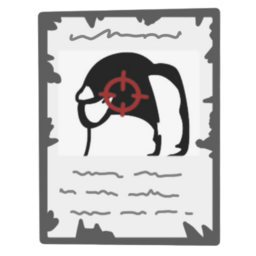
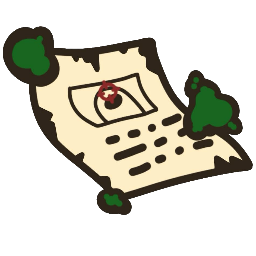
The list of what I did is in Plugin.cs
Still just have jack of all assassin not working right. :D

diff --git a/JAM/Roles/Crewmate/MicromanagerRole.cs b/JAM/Roles/Crewmate/MicromanagerRole.cs
@@ -128,7 +128,7 @@ public sealed class MicromanagerRole(IntPtr cppPtr) : CrewmateGhostRole(cppPtr),
             return false;
         }
 
-        if (opts.MicromanagerCanBeClickedBy == MicromanagerRoleClickableType.NonCrew && PlayerControl.LocalPlayer.Data.Role.IsCrewmate())
+        if (opts.MicromanagerCanBeClickedBy == MicromanagerRoleClickableType.NonCrew && PlayerControl.LocalPlayer.IsCrewmate())
         {
             return false;
         }
@@ -242,7 +242,7 @@ public sealed class MicromanagerRole(IntPtr cppPtr) : CrewmateGhostRole(cppPtr),
         }
 
         var crewPlayers = PlayerControl.AllPlayerControls.ToArray().Where(x => 
-            x && x != Player && x.Data != null && x.IsCrewmate() &&
+            x && x != Player && x.Data != null && x.IsCrewmate() && !x.HasModifier<AllianceGameModifier>() &&
                 opts.MicromanagerManagesCrewTasks switch
                 {
                     MicromanagerRoleCrewType.AliveCrew => !x.Data.IsDead,
@@ -283,8 +283,6 @@ public sealed class MicromanagerRole(IntPtr cppPtr) : CrewmateGhostRole(cppPtr),
 
         HudManager.Instance.ShowTaskComplete();
 
-        RpcCompleteTask(randomCrew, randomTask.Id);
-
         var sb = new StringBuilder();
         randomTask.AppendTaskText(sb);
 
@@ -301,8 +299,10 @@ public sealed class MicromanagerRole(IntPtr cppPtr) : CrewmateGhostRole(cppPtr),
 
         notif.AdjustNotification();
 
+
+        RpcCompleteTask(randomCrew, randomTask.Id, taskText);
         var targetMessage =
-            $"<b>{microColor.ToTextColor()}The Micromanager completed the</color> {TownOfUsColors.Doomsayer.ToTextColor()}{taskText} </color>{microColor.ToTextColor()}task for you.</color></b>";
+            $"<b>{microColor.ToTextColor()}The Micromanager completed the</color> {TownOfUsColors.Doomsayer.ToTextColor()}{taskText}</color>{microColor.ToTextColor()}task for you.</color></b>";
     }
 
     public override void Initialize(PlayerControl player)
@@ -531,13 +531,11 @@ public sealed class MicromanagerRole(IntPtr cppPtr) : CrewmateGhostRole(cppPtr),
     }
 
     [MethodRpc((uint) JAMRpcCalls.MicromanageTask)]
-    public static void RpcCompleteTask(PlayerControl player, uint taskId)
+    public static void RpcCompleteTask(PlayerControl player, uint taskId, string taskName)
     {
         if (player.AmOwner)
         {
             player.RpcCompleteTask(taskId);
-
-            string taskName = player.Data.FindTaskById(taskId)?.ToString() ?? "Null";
 
             Helpers.CreateAndShowNotification(
                 $"<b>{Colors.Micromanager.ToTextColor()}Your {TownOfUsColors.Doomsayer.ToTextColor()}{taskName}</color> Task Was Completed By The {Colors.Micromanager.ToTextColor()}Micromanager</color>. </color></b>",
@@ -553,7 +551,6 @@ public sealed class MicromanagerRole(IntPtr cppPtr) : CrewmateGhostRole(cppPtr),
     {
         public static void Postfix(ref List<RoleTypes> ___CrewmateGhostRolePool)
         {
-            Info("Meep Moop");
             ___CrewmateGhostRolePool.RemoveAll(x => x == (RoleTypes)RoleId.Get<MicromanagerRole>());
         }
     }

diff --git a/JAM/Modifiers/ConcealedModifier.cs b/JAM/Modifiers/ConcealedModifier.cs
@@ -10,6 +10,7 @@ using TownOfUs.Modifiers;
 using TownOfUs.Modifiers.Game;
 using TownOfUs.Modifiers.Game.Universal;
 using TownOfUs.Modules.Wiki;
+using TownOfUs.Options.Maps;
 using TownOfUs.Utilities;
 using TownOfUs.Utilities.Appearances;
 using UnityEngine;
@@ -23,8 +24,7 @@ public sealed class ConcealedModifier : UniversalGameModifier, IWikiDiscoverable
     public override string ModifierName => "Concealed";
      
     public override string IntroInfo => "You Are Harder To See";
-
-     
+    
     public override string GetDescription()
     {
         return "You Are Slightly Less Opaque";
@@ -45,7 +45,18 @@ public sealed class ConcealedModifier : UniversalGameModifier, IWikiDiscoverable
      
     public override bool IsModifierValidOn(RoleBehaviour role)
     {
-        return !role.CanVent && base.IsModifierValidOn(role);
+        return base.IsModifierValidOn(role) && !role.Player.HasModifier<ShyModifier>();
+    }
+    [HarmonyPatch(typeof(ShyModifier), nameof(ShyModifier.IsModifierValidOn))]
+    public static class MakeShyExclusive
+    {
+        public static void Postfix(RoleBehaviour role, ref bool __result)
+        {
+            if (role.Player.HasModifier<ConcealedModifier>())
+            {
+                __result = false;
+            }
+        }
     }
 
     public override ModifierUiConfiguration Configuration
@@ -76,13 +87,29 @@ public sealed class ConcealedModifier : UniversalGameModifier, IWikiDiscoverable
     {
         base.Update();
 
-        if (!Player.Data.IsDead)
+        bool commsActive;
+
+        switch ((ExpandedMapNames)GameOptionsManager.Instance.currentGameOptions.MapId)
+        {
+            case ExpandedMapNames.MiraHq:
+            case ExpandedMapNames.Fungle:
+                var hqComms = ShipStatus.Instance.Systems[SystemTypes.Comms]
+                    .Cast<HqHudSystemType>();
+
+                commsActive = hqComms.IsActive;
+                break;
+
+            default:
+                var hudComms = ShipStatus.Instance.Systems[SystemTypes.Comms]
+                    .Cast<HudOverrideSystemType>();
+
+                commsActive = hudComms.IsActive;
+                break;
+        }
+
+        if (!Player.Data.IsDead && !(commsActive && TownOfUsMapOptions.IsCamoCommsOn()))
         {
             ShyModifier.SetVisibility(Player, OptionGroupSingleton<ConcealedOptions>.Instance.ConcealedOpacity);
-        }
-        else
-        {
-            ShyModifier.SetVisibility(Player, 1, OptionGroupSingleton<ConcealedOptions>.Instance.ConcealName);
         }
     }
 }

diff --git a/JAM/Modifiers/Role/DeceiverShieldModifiers.cs b/JAM/Modifiers/Role/DeceiverShieldModifiers.cs
@@ -1,4 +1,5 @@
 using HarmonyLib;
+using Il2CppSystem.Web.Util;
 using MiraAPI.Modifiers;
 using MiraAPI.Translation;
 using MiraAPI.Utilities.Assets;
@@ -42,40 +43,12 @@ public sealed class DeceiverMedicShield : BaseShieldModifier, IAnimated
     public override void Update()
     {
         Shield.SetActive(!Player.Data.IsDead);
-    }
-}
 
-public sealed class DeceiverWardenShield : BaseShieldModifier, IAnimated
-{
-    public override string ModifierName => "Fortified";
-    public override string ShieldDescription => "You are fortified by a Warden!\nNo one can interact with you.";
-    public override LoadableAsset<Sprite>? ModifierIcon => TouRoleIcons.Warden;
-    public override bool HideOnUi => false;
-    public override Color FreeplayFileColor => new Color32(100, 220, 100, byte.MaxValue);
-    public GameObject Shield { get; set; }
-    public bool IsVisible { get; set; } = true;
-    public void SetVisible()
-    {
-    }
-    public override void OnActivate()
-    {
-        Shield = AnimStore.SpawnAnimBody(base.Player, TouAssets.WardenFort.LoadAsset(), false, -1.1f, -0.1f, 1.5f);
-    }
-    public override void OnDeath(DeathReason reason)
-    {
-        base.OnDeath(reason);
-        Shield?.SetActive(false);
-        ModifierComponent?.RemoveModifier(this);
-    }
-    public override void OnDeactivate()
-    {
-        if (Shield != null)
+        DeceiverRole.confuseRole = false;
+        if(!MiraAPI.Utilities.Helpers.GetAlivePlayers().Any(p => p.Data.Role is DeceiverRole))
         {
-            Shield.Destroy();
+            ModifierComponent.RemoveModifier(this);
         }
-    }
-    public override void Update()
-    {
-        Shield.SetActive(!Player.Data.IsDead);
+        DeceiverRole.ReConfuse();
     }
 }

diff --git a/JAM/Plugin.cs b/JAM/Plugin.cs
@@ -80,23 +80,25 @@ public enum JAMRpcCalls : uint
     MicromanageTask = 2
 }
 
+// Jack Of All assassin continues game even when all crew
+
+// Concealed looks odd... (icon in-game)
+
 // =============== FIXES ===============
 /*
- * Added Fake Shield Ability To Deceiver
- * Bounty Target No Longer Shows Up In Win/Loss Screen
- * Removed Zombie Alliance Modifier
- * Bounty Reward Modifier No Longer Shows Up In The Wiki
- * Made Bounty Target Modifier Hidden
- * Zombies No Longer Win With Crew Without The Alliance Modifier
- * Fixed Role Option Description Text (RoleMedDescription) For Roles
- * Changed Micromanager To Use An RPC Call Instead Of A Modifier
- * Made This Mod's Neutrals Win/Lose Correctly When Dead
- * Added Concealed Modifier
- * Gave Bounty Target A Speed Boost
- * Adjusted Micromanager To Work Better
- * Fixed Bounty Reveal Modifier
- * Made it so 100% on Bounty Rewards Works Correctly
- * Micromanager No Longer Spawns On Crewmate Death
- * Jack Of All Can No Longer Get Circumvent
- * Added Custom Intro Sounds For Jack Of All and Time Keeper
+ * Fixed Bounty Target Speed Modifier
+ * Fixed Concealed Options Appearance
+ * Micromanager Can No Longer Manager Alliance Modified Crew
+ * Zombies Can No Longer Call Meetings
+ * Zombie Leader Is Now Guessable Until Final 3
+ * Made Concealed And Shy Mutually Exclusive
+ * You Are No Longer Concealed During Camo Comms
+ * Adjusted Wording In Bounty Hunter Options
+ * Micromanager Task Completion Names Look Right
+ * Changed Gossip Sprite
+ * Slighty Brightened Bounty Hunter's Color
+ * Deceiver Shield Goes Away When Deceiver Is Dead Now
+ * Changed Bounty Hunter Sprite
+ * Dead no longer get bounty hunting button
+ * Removed Warden Shield From Deceiver Shields
 */

diff --git a/JAM/Roles/Neutral/ZombieRoles.cs b/JAM/Roles/Neutral/ZombieRoles.cs
@@ -87,6 +87,7 @@ public class ZombieRole(IntPtr cppPtr) : NeutralRole(cppPtr), ITownOfUsRole, IWi
         }
 
         Player.RpcAddModifier<ZombieRevealedModifier>();
+        Player.RemainingEmergencies = 0;
     }
 
     public bool WinConditionMet()
@@ -196,7 +197,7 @@ public sealed class ZombieLeaderRole(IntPtr cppPtr) : NeutralRole(cppPtr), ITown
     public Color RoleColor => Colors.Zombie;
     public ModdedRoleTeams Team => ModdedRoleTeams.Custom;
     public RoleBehaviour AppearAs => (RoleBehaviour)RoleId.Get<ZombieLeaderRole>();
-    public bool IsGuessable => PlayerControl.LocalPlayer != null && PlayerControl.LocalPlayer.Data.Role is VigilanteRole;
+    public bool IsGuessable => Helpers.GetAlivePlayers().Count > 3;
     public CustomRoleConfiguration Configuration => new(this)
     {
         IconTmp = TmpSpriteUtils.CreateSpriteAsset(JamRoleIcons.ZombieLeader.LoadAsset(), "JackOfAllMods.Roles.Neutral.ZombieLeader", 1.45f),
@@ -216,7 +217,7 @@ public sealed class ZombieLeaderRole(IntPtr cppPtr) : NeutralRole(cppPtr), ITown
     float timer;
     public void Update()
     {
-        if(Player == null || Player.Data.IsDead) return;
+        if (Player == null || Player.Data.IsDead) return;
 
         List<DeadBody> bodiesInRange = Helpers.GetNearestDeadBodies(Player.transform.position, ShipStatus.Instance.MaxLightRadius * 100, Helpers.CreateFilter(Constants.NotShipMask));
         bodiesInRange.RemoveAll(b => !(MiscUtils.PlayerById(b.ParentId).GetRoleWhenAlive() is ZombieRole));

diff --git a/JAM/Buttons/Impostor/DeceiverShieldButton.cs b/JAM/Buttons/Impostor/DeceiverShieldButton.cs
@@ -34,16 +34,16 @@ public sealed class DeceiverShieldButton : TownOfUsRoleButton<DeceiverRole, Play
             Error("Deceiver Shield: Target is null");
             return;
         }
-        else if (MiraAPI.Utilities.Helpers.GetAlivePlayers().Any(p => p.HasModifier<DeceiverMedicShield>() || p.HasModifier<DeceiverWardenShield>()))
+        else if (MiraAPI.Utilities.Helpers.GetAlivePlayers().Any(p => p.HasModifier<DeceiverMedicShield>()))
         {
-            Error("There Is Already A Shielded Target: " + Helpers.GetAlivePlayers().FirstOrDefault(p => p.HasModifier<DeceiverMedicShield>() || p.HasModifier<DeceiverWardenShield>())?.Data.PlayerName);
+            Error("There Is Already A Shielded Target: " + Helpers.GetAlivePlayers().FirstOrDefault(p => p.HasModifier<DeceiverMedicShield>())?.Data.PlayerName);
             return;
         }
 
-        DeceiverRole.RpcDeceiverShield(PlayerControl.LocalPlayer, Target, UnityEngine.Random.Range(0f, 1f) < 0.9f);
+        DeceiverRole.RpcDeceiverShield(PlayerControl.LocalPlayer, Target);
     }
     public override bool CanUse()
     {
-        return base.CanUse() && !MiraAPI.Utilities.Helpers.GetAlivePlayers().Any(p => p.HasModifier<DeceiverMedicShield>() || p.HasModifier<DeceiverWardenShield>());
+        return base.CanUse() && !MiraAPI.Utilities.Helpers.GetAlivePlayers().Any(p => p.HasModifier<DeceiverMedicShield>());
     }
 }

diff --git a/JAM/Roles/Impostor/DeceiverRole.cs b/JAM/Roles/Impostor/DeceiverRole.cs
@@ -117,14 +117,11 @@ public sealed class DeceiverRole(IntPtr cppPtr) : ImpostorRole(cppPtr), ITownOfU
     }
 
     [MethodRpc((uint)JAMRpcCalls.DeceiverShield)]
-    public static void RpcDeceiverShield(PlayerControl deceiver, PlayerControl target, bool medicShield)
+    public static void RpcDeceiverShield(PlayerControl deceiver, PlayerControl target)
     {
         if(PlayerControl.LocalPlayer == deceiver || PlayerControl.LocalPlayer == target)
         {
-            if (medicShield)
-                target.AddModifier<DeceiverMedicShield>();
-            else
-                target.AddModifier<DeceiverWardenShield>();
+            target.AddModifier<DeceiverMedicShield>();
         }
     }
 
@@ -255,7 +252,7 @@ public sealed class DeceiverRole(IntPtr cppPtr) : ImpostorRole(cppPtr), ITownOfU
         }
     }
 
-    static void ReConfuse()
+    public static void ReConfuse()
     {
         if (!hasGameStarted) return;
         if (PlayerControl.LocalPlayer.Data.Role.IsImpostor() || PlayerControl.LocalPlayer.Data.IsDead || PlayerControl.LocalPlayer.Data.Role is IGhostRole) return;

diff --git a/JAM/Options/Modifiers/VentableOptions.cs b/JAM/Options/Modifiers/VentableOptions.cs
@@ -12,14 +12,11 @@ namespace JAM.Options.Modifiers.Game.Universal;
 
 public sealed class VentableOptions : AbstractOptionGroup<VentableModifier>
 {
-        public override string GroupName => "Ventable Options";
+    public override string GroupName => "Ventable Options";
     
-        [ModdedNumberOption("Ventable Count", 0f, 5f, 1f)]
+    [ModdedNumberOption("Ventable Count", 0f, 5f, 1f)]
     public float VentableCount { get; set; } = 1f;
 
-        [ModdedNumberOption("Ventable Chance", 0f, 100f, 10f, MiraNumberSuffixes.Percent)]
+    [ModdedNumberOption("Ventable Chance", 0f, 100f, 10f, MiraNumberSuffixes.Percent)]
     public float VentableChance { get; set; } = 50f;
-
-        [ModdedNumberOption("Max Vents", 0f, 100f, 1f, MiraNumberSuffixes.None, null, true)]
-    public float MaxVents { get; set; } = 0f;
 }

diff --git a/JAM/Colors.cs b/JAM/Colors.cs
@@ -13,7 +13,7 @@ public static class Colors
 
     //Neutral Colors
     public static Color Scrubber => TownOfUsColors.UseBasic ? Palette.CrewmateBlue : new Color32(97, 147, 212, byte.MaxValue);
-    public static Color BountyHunter => TownOfUsColors.UseBasic ? Palette.CrewmateBlue : new Color32(10, 47, 14, byte.MaxValue);
+    public static Color BountyHunter => TownOfUsColors.UseBasic ? Palette.CrewmateBlue : new Color32(24, 102, 31, byte.MaxValue);
     public static Color TimeKeeper => TownOfUsColors.UseBasic ? Palette.CrewmateBlue : new Color32(230, 242, 200, byte.MaxValue);
     public static Color Zombie => TownOfUsColors.UseBasic ? Palette.CrewmateBlue : new Color32(84, 192, 113, byte.MaxValue);
 

diff --git a/JAM/Assets/JamAssets.cs b/JAM/Assets/JamAssets.cs
@@ -8,6 +8,7 @@ public static class JamAssets
     private const string ShortPath = "JAM.Resources.Other";
     // K2 Buttons & Assets
     public static LoadableAsset<Sprite> BountyTarget { get; } = new LoadableResourceAsset($"{ShortPath}.Bounty Target.png", 200);
+    public static LoadableAsset<Sprite> GossipOverhear { get; } = new LoadableResourceAsset($"{ShortPath}.GossipAbility.png", 200);
     // Nulls Buttons & Assets
     public static LoadableAsset<Sprite> CamouflagerButton { get; } = new LoadableResourceAsset($"{ShortPath}.CamouflagerButton.png", 200);
     public static LoadableAsset<Sprite> ProjectButton { get; } = new LoadableResourceAsset($"{ShortPath}.RecoilButton.png", 200);

diff --git a/JAM/Options/Roles/Neutral/BountyHunterOptions.cs b/JAM/Options/Roles/Neutral/BountyHunterOptions.cs
@@ -34,7 +34,7 @@ public sealed class BountyHunterOptions : AbstractOptionGroup<BountyHunterRole>
     public float GiveVentable { get; set; } = 10f;
     [ModdedNumberOption("Extra Vote Weight", 0f, 100f, 5f, MiraNumberSuffixes.Percent)]
     public float GiveExtraVote { get; set; } = 10f;
-    [ModdedNumberOption("Reveal Role Weight (CK Only)", 0f, 100f, 5f, MiraNumberSuffixes.Percent)]
+    [ModdedNumberOption("Reveal Role Weight (Crew Only)", 0f, 100f, 5f, MiraNumberSuffixes.Percent)]
     public float RevealCKRole { get; set; } = 10f;
     [ModdedNumberOption("Double Shot Weight", 0f, 100f, 5f, MiraNumberSuffixes.Percent)]
     public float GiveDblShot { get; set; } = 10f;

diff --git a/JAM/Modifiers/Role/BountyTargetModifier.cs b/JAM/Modifiers/Role/BountyTargetModifier.cs
@@ -148,12 +148,14 @@ public sealed class BountyTargetModifier : BaseModifier
     }
 
     [HarmonyPatch(typeof(LogicOptions), nameof(LogicOptions.GetPlayerSpeedMod))]
-    [HarmonyPostfix]
-    public static void TargetSpeedPatch(PlayerControl pc, ref float __result)
+    public static class TargetSpeedPatch
     {
-        if (pc.HasModifier<BountyTargetModifier>())
+        public static void Postfix(PlayerControl pc, ref float __result)
         {
-            __result *= 2;
+            if (pc.HasModifier<BountyTargetModifier>())
+            {
+                __result *= 2;
+            }
         }
     }
 }
